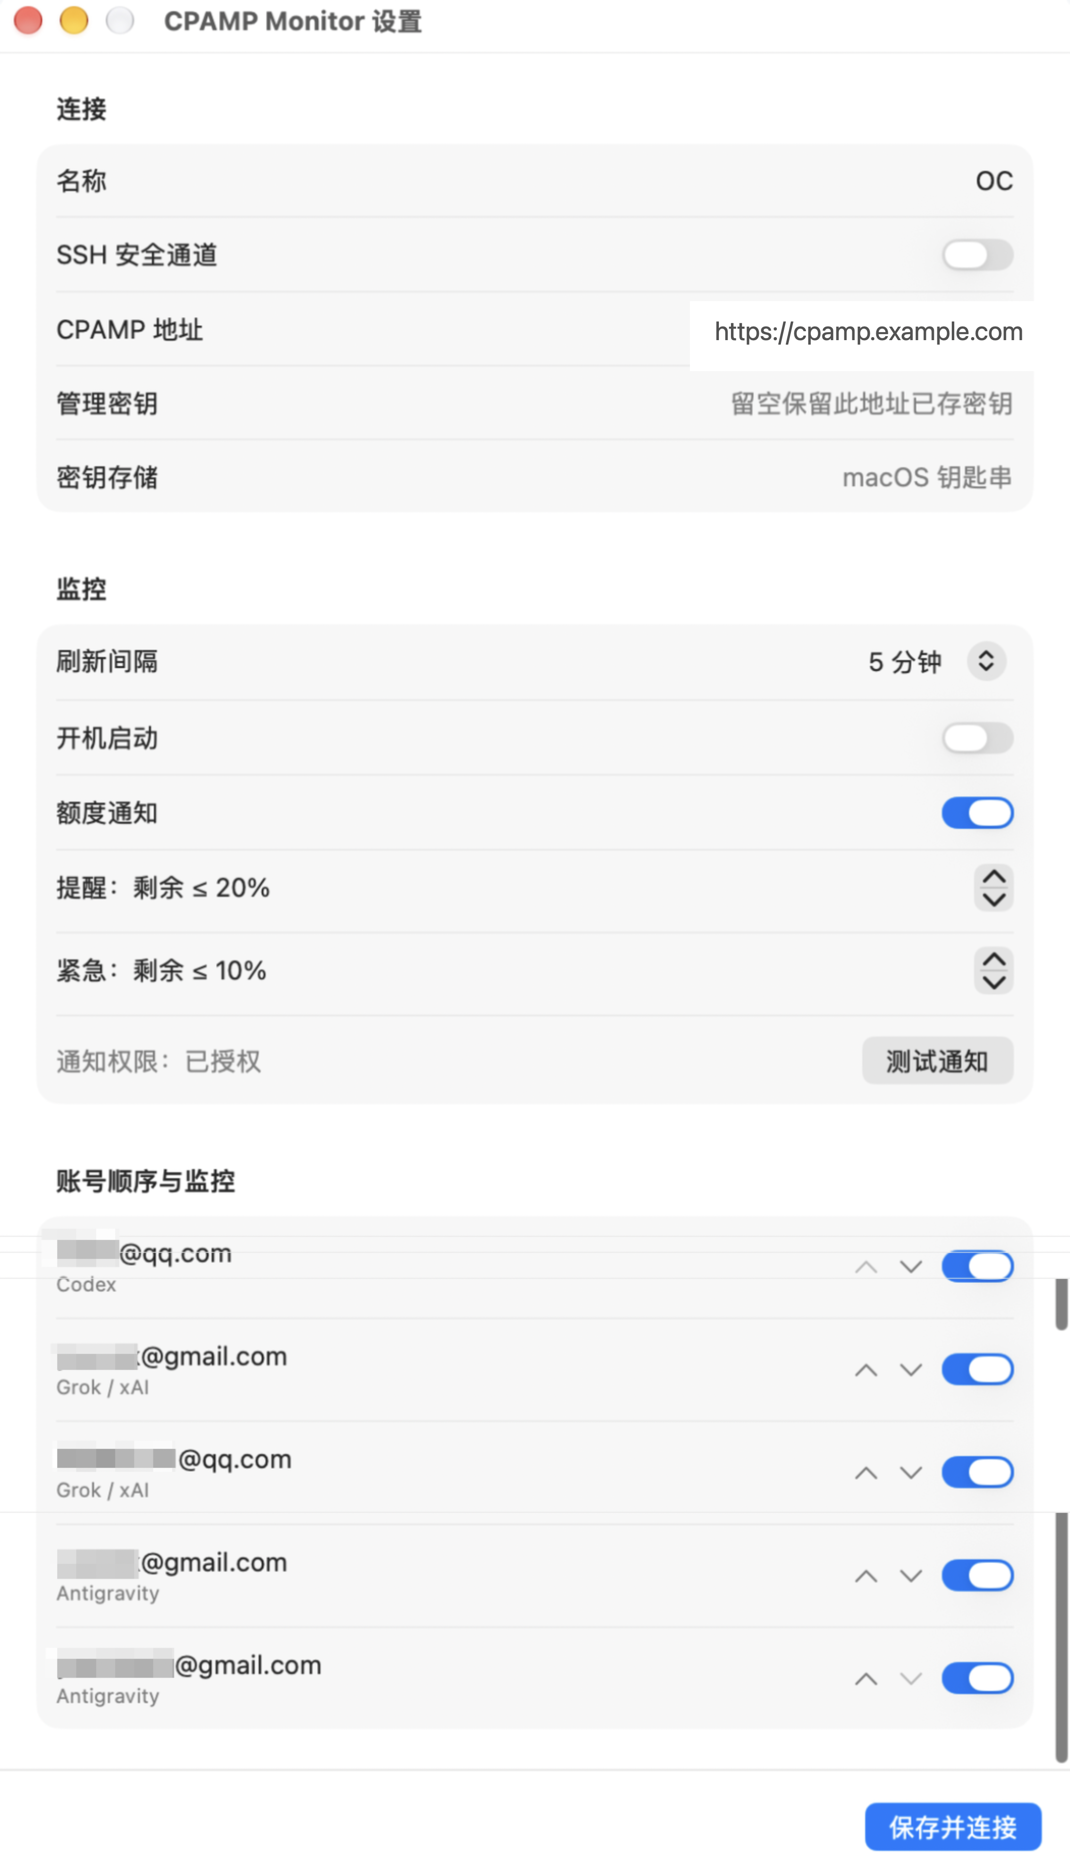
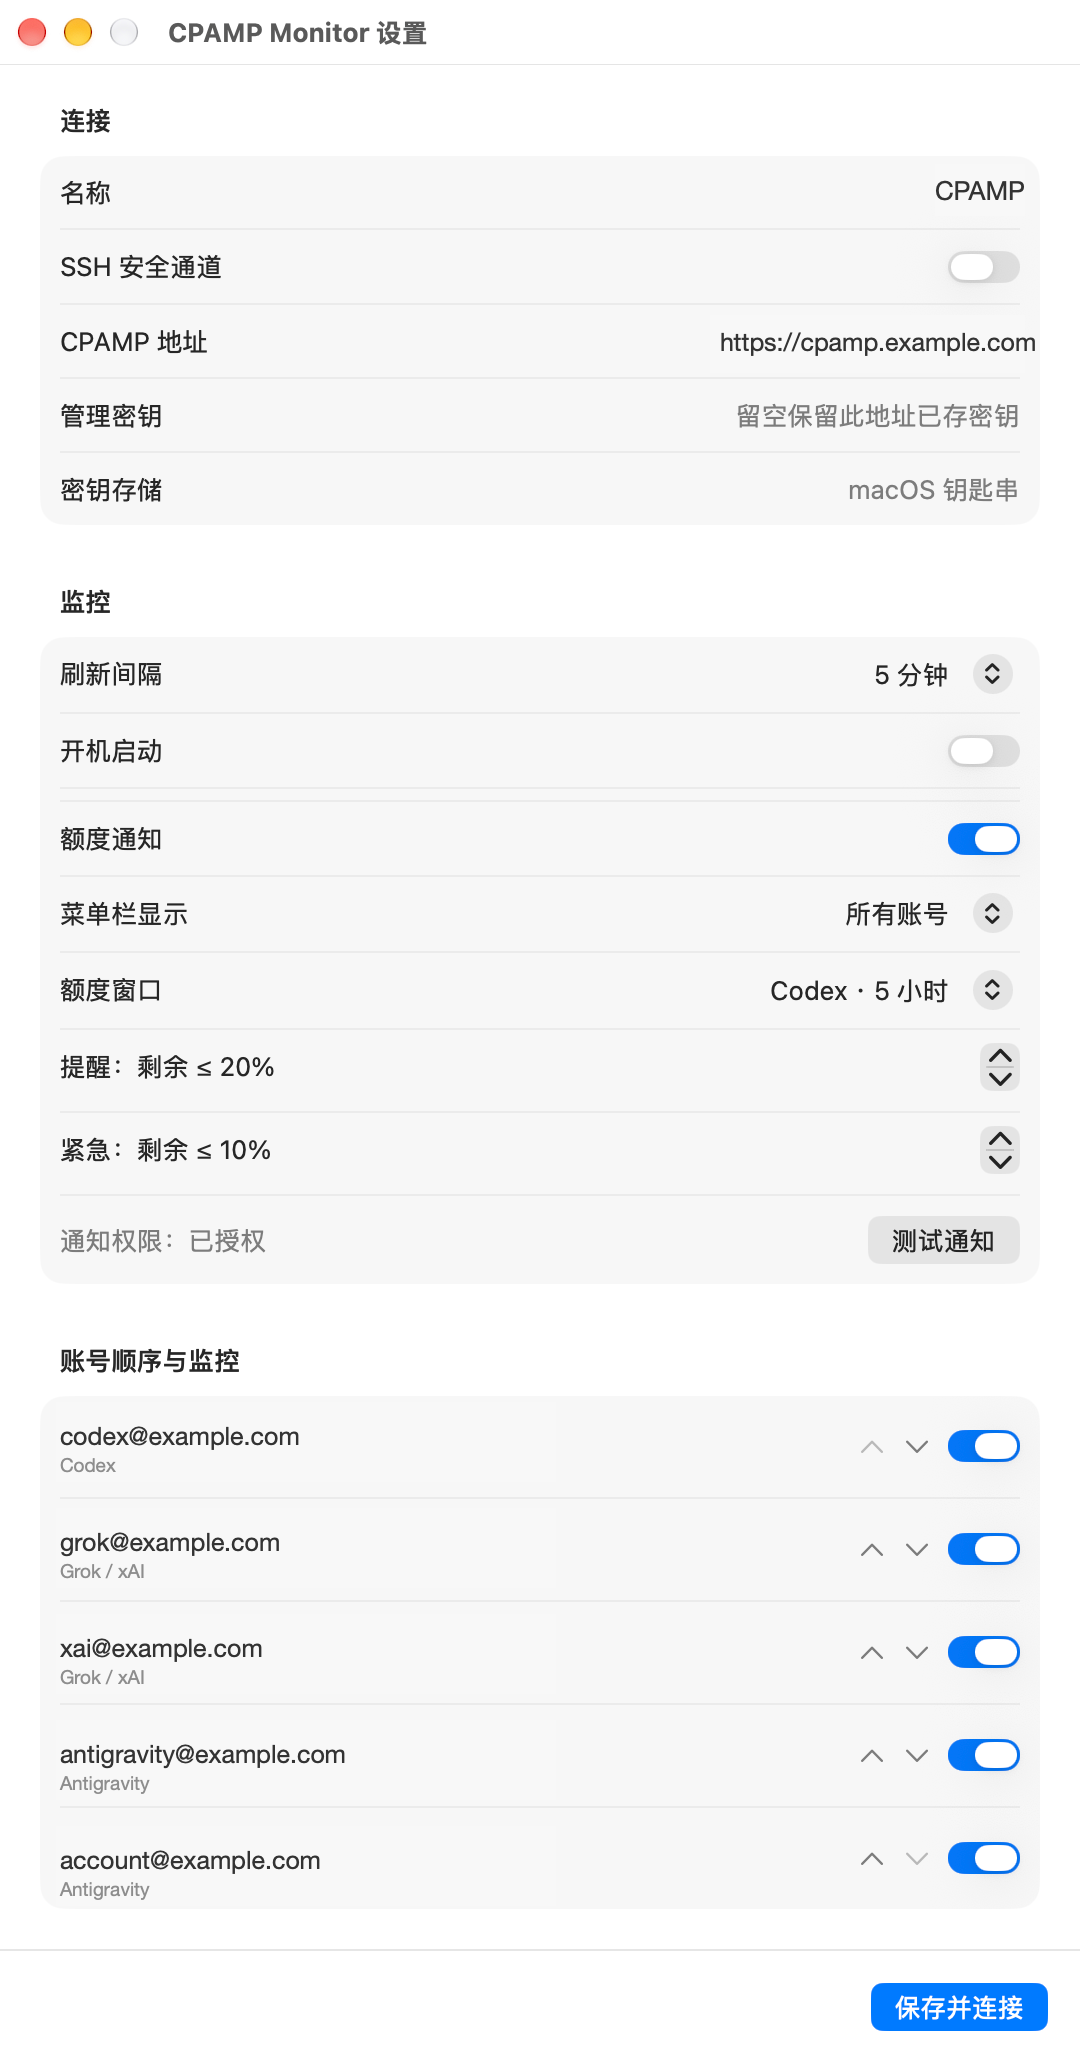
Refresh sanitized README screenshots

diff --git a/README.md b/README.md
@@ -20,11 +20,12 @@ macOS and Windows downloads are published together in each stable `v*` [Release]
 
 ## Screenshots
 
-The screenshots show the menu-bar dashboard and the settings window. Account identifiers are masked and the service address in the settings screenshot is an example address.
+The screenshots show the macOS menu-bar dashboard, macOS settings and the native Windows client after a successful connection. Account identifiers are masked; the service address and email addresses shown in the screenshots are not real.
 
 <p align="center">
   <img src="docs/images/cpamp-monitor-dashboard.png" alt="CPAMP Monitor dashboard" width="420">
   <img src="docs/images/cpamp-monitor-settings.png" alt="CPAMP Monitor settings" width="420">
+  <img src="docs/images/cpamp-monitor-windows.png" alt="CPAMP Monitor Windows client" width="420">
 </p>
 
 ## Compatible Service

diff --git a/README_CN.md b/README_CN.md
@@ -21,11 +21,12 @@ macOS 和 Windows 安装包会随每个稳定的 `v*` [Release](https://github.c
 
 ## 截图
 
-以下截图展示菜单栏监控面板和设置窗口。截图中的账号标识已遮挡，设置截图中的服务地址为示例地址。
+以下截图展示 macOS 菜单栏监控面板、macOS 设置窗口，以及成功连接后的原生 Windows 客户端。截图中的账号和邮箱均已遮挡，服务地址和邮箱内容均不是真实信息。
 
 <p align="center">
   <img src="docs/images/cpamp-monitor-dashboard.png" alt="CPAMP Monitor 监控面板" width="420">
   <img src="docs/images/cpamp-monitor-settings.png" alt="CPAMP Monitor 设置窗口" width="420">
+  <img src="docs/images/cpamp-monitor-windows.png" alt="CPAMP Monitor Windows 客户端" width="420">
 </p>
 
 ## 适配的源项目
